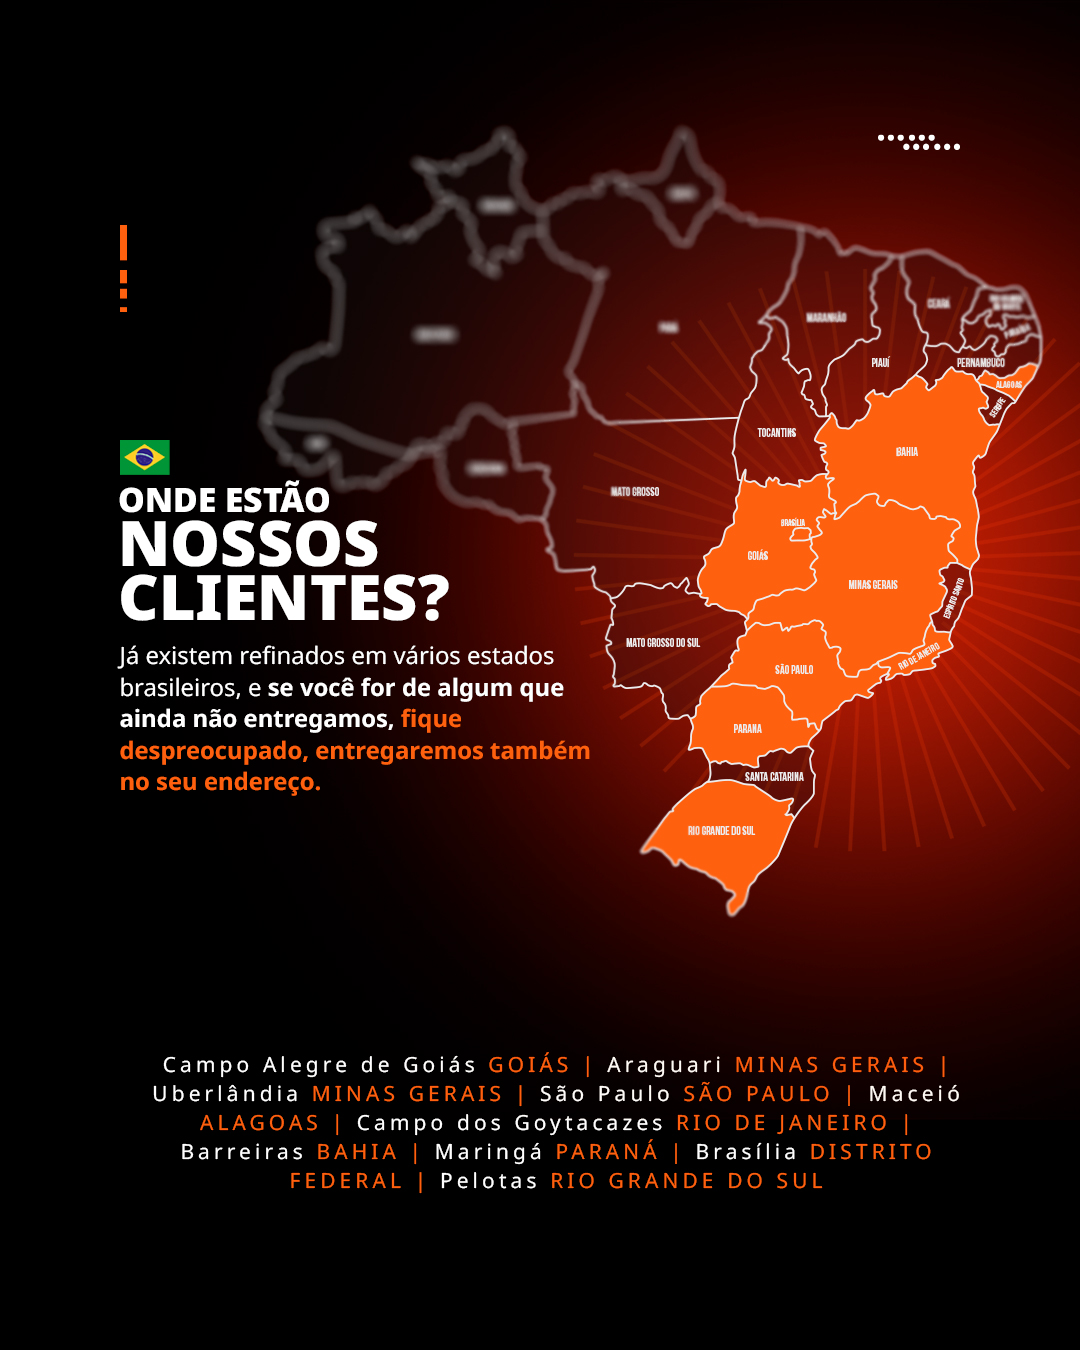
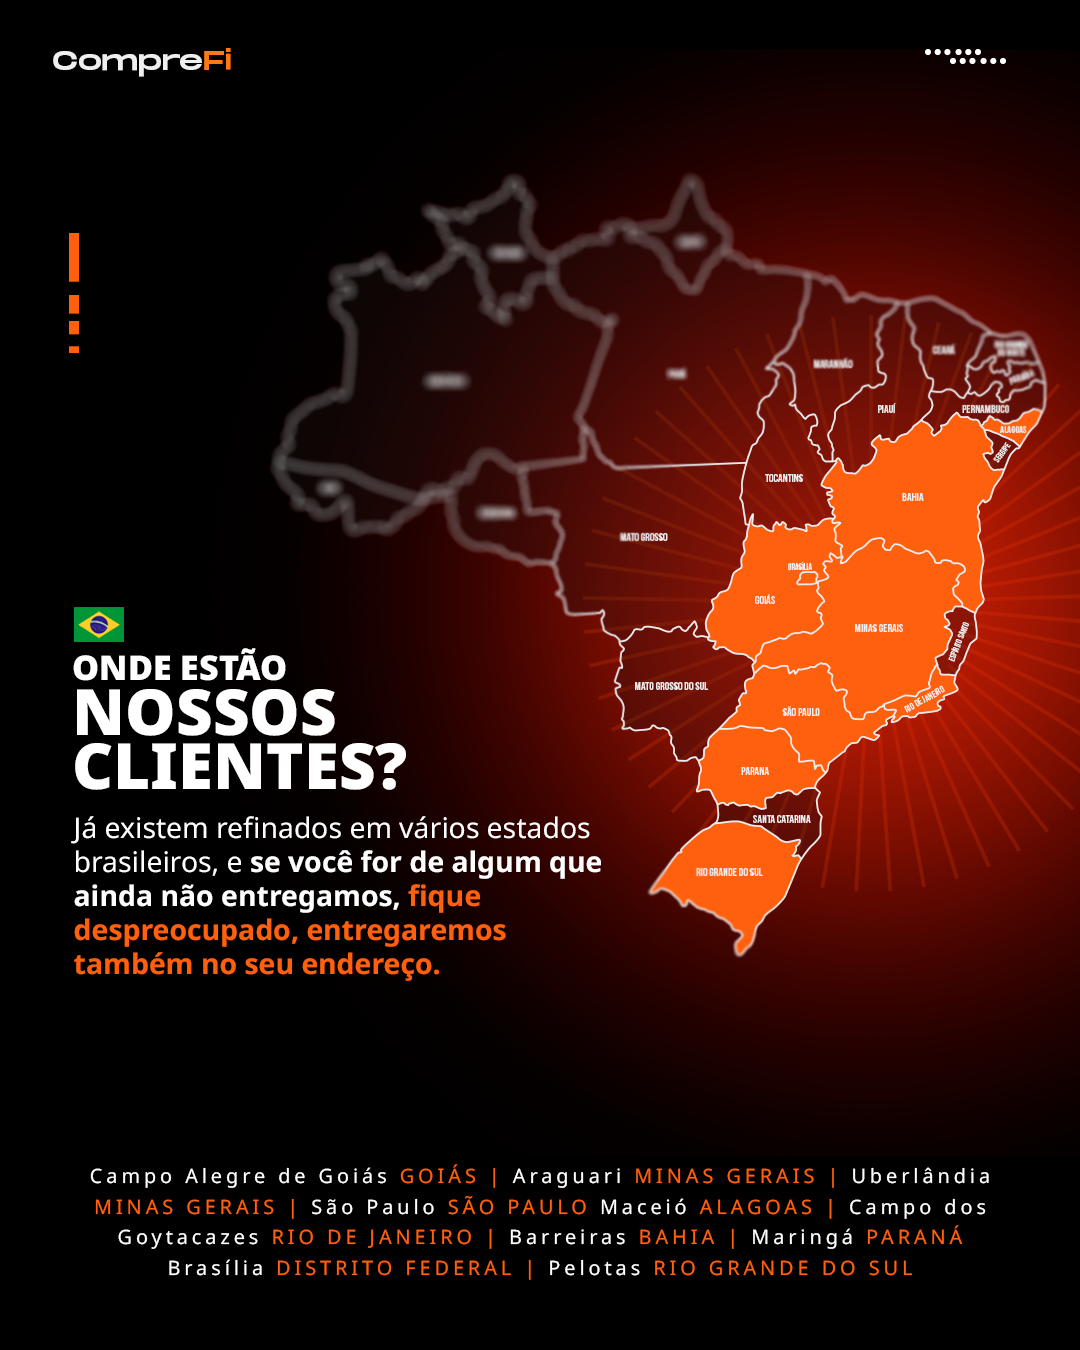
fix mapa

diff --git a/src/pages/Home.tsx b/src/pages/Home.tsx
@@ -19,7 +19,7 @@ const Home: React.FC<HomeProps> = ({ isMobile }) => {
   useEffect(() => {
     const timer = setTimeout(() => {
       setBannerSrc(locsBannerStatic); // troca pela imagem estática
-    }, 7000);
+    }, 5000);
 
     return () => clearTimeout(timer);
   }, []);
